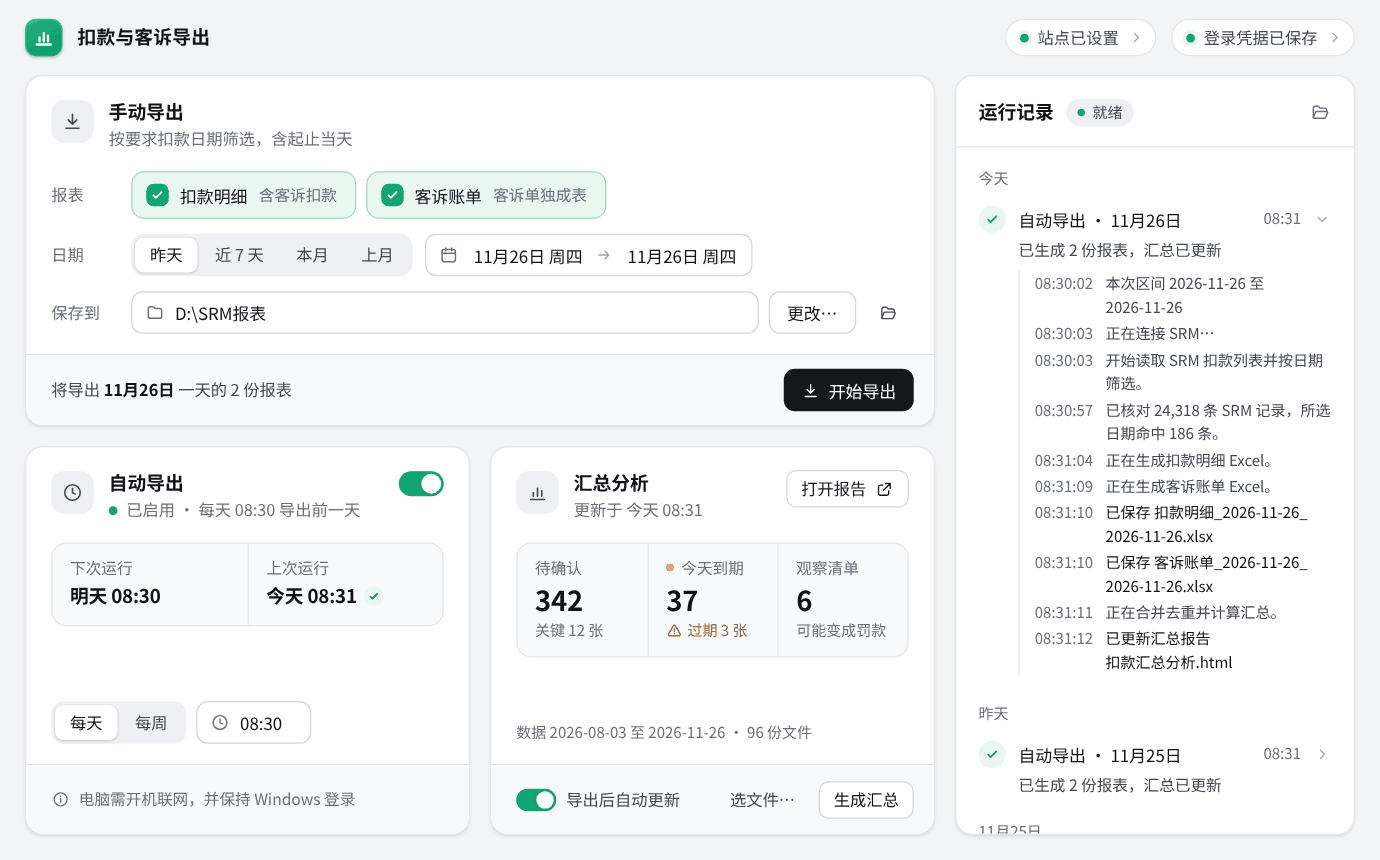
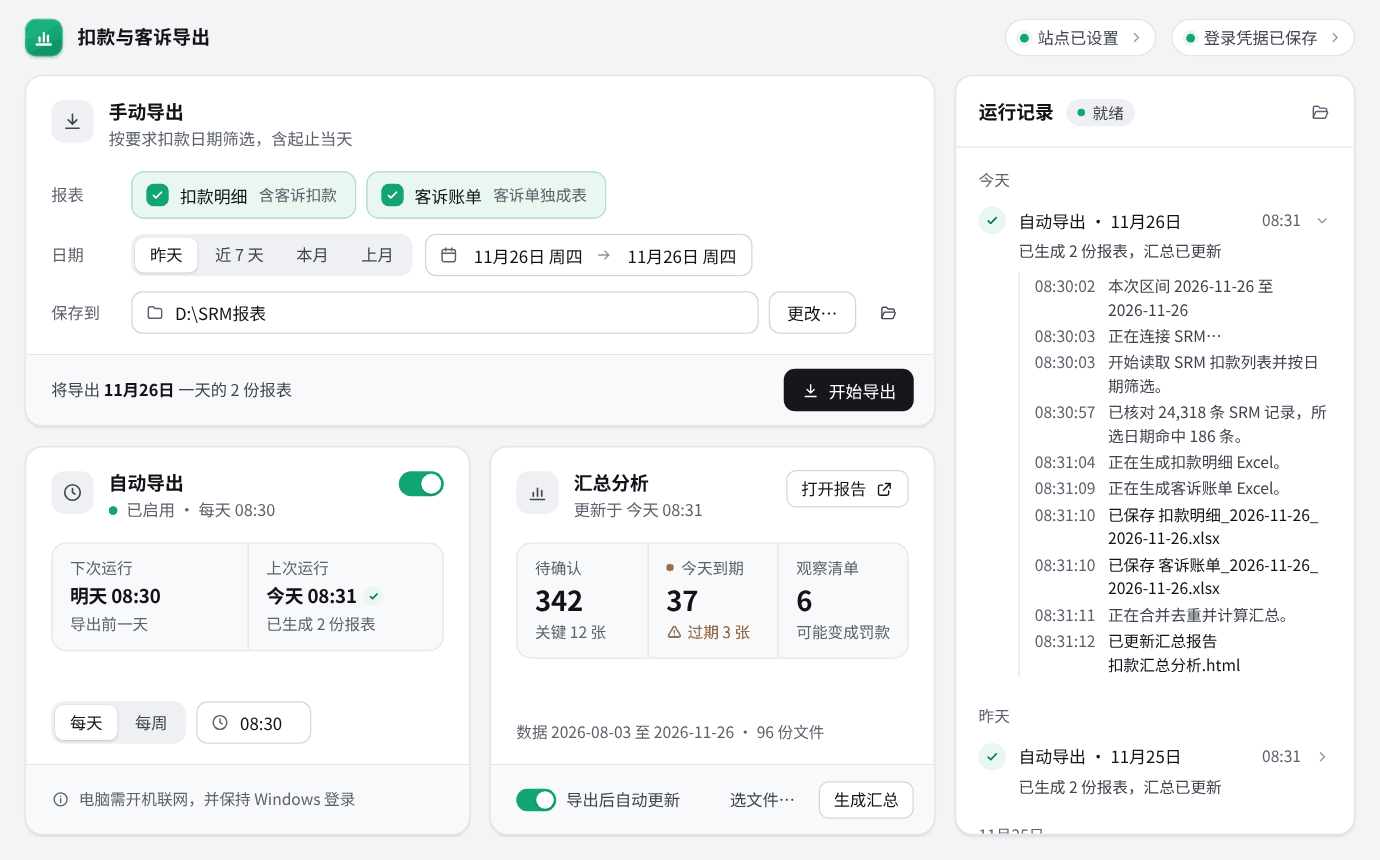
Fit the WebView2 window at the minimum size

diff --git a/app/web/index.html b/app/web/index.html
@@ -9,7 +9,7 @@
 :root{
   --bg:#f3f4f6;--surface:#ffffff;--surface-2:#f8f9fa;--sunken:#eef0f3;--hover:#f2f3f5;
   --line:#e3e5e9;--line-2:#d3d6dc;
-  --ink:#111318;--ink-2:#434852;--muted:#6a707b;--faint:#a1a6af;
+  --ink:#111318;--ink-2:#3f444e;--muted:#5c626d;--faint:#8f959e;
   --primary:#15171c;--primary-hover:#2c2f37;--on-primary:#ffffff;
   --brand:#10a572;--brand-strong:#047857;--brand-tint:#e9f7f0;--brand-line:#9fd9c0;--on-brand:#ffffff;
   --warn:#b45309;--warn-dot:#f59e0b;
@@ -39,7 +39,7 @@
 *{box-sizing:border-box;margin:0;padding:0}
 [hidden]{display:none!important}
 html,body{height:100%}
-body{font:14px/1.5 var(--font);color:var(--ink);background:var(--bg);-webkit-font-smoothing:antialiased;overflow:hidden;user-select:none;min-width:960px}
+body{font:14px/1.5 var(--font);color:var(--ink);background:var(--bg);-webkit-font-smoothing:antialiased;overflow-x:auto;overflow-y:hidden;user-select:none;min-width:1000px}
 button,input{font:inherit;color:inherit;border:0;background:none;outline:0}
 button{cursor:pointer}
 :focus-visible{outline:2px solid var(--brand);outline-offset:2px;border-radius:6px}
@@ -53,7 +53,7 @@ button{cursor:pointer}
 ::-webkit-scrollbar-thumb:hover{background-color:var(--faint)}
 
 /* ---------- 框架 ---------- */
-.app{display:grid;grid-template-columns:minmax(0,1fr) 320px;grid-template-rows:60px minmax(0,1fr);gap:0 16px;height:100vh;padding:0 20px 20px}
+.app{display:grid;grid-template-columns:minmax(0,1fr) 320px;grid-template-rows:60px minmax(0,1fr);gap:0 16px;height:100%;padding:0 20px 20px}
 .topbar{grid-column:1/-1;display:flex;align-items:center;gap:12px}
 .logo{width:30px;height:30px;border-radius:9px;display:grid;place-items:center;background:linear-gradient(155deg,#22c58c,#08875c);box-shadow:inset 0 0 0 1px rgba(255,255,255,.14),0 1px 2px rgba(8,135,92,.35)}
 .logo .i{width:18px;height:18px;stroke:#fff;stroke-width:2.5}
@@ -64,7 +64,7 @@ button{cursor:pointer}
 .chip.ok .dot{background:var(--brand);box-shadow:0 0 0 3px var(--brand-tint)}
 .chip.warn .dot{background:var(--warn-dot)}
 .chip .i{width:14px;height:14px;color:var(--faint)}
-.main{display:flex;flex-direction:column;gap:16px;min-width:0;min-height:0;overflow:auto;margin:-2px;padding:2px}
+.main{display:flex;flex-direction:column;gap:16px;min-width:0;min-height:0;overflow-x:hidden;overflow-y:auto;margin:-2px;padding:2px}
 .row2{display:grid;grid-template-columns:repeat(2,minmax(0,1fr));gap:16px;flex:1 0 auto}
 
 /* ---------- 卡片 ---------- */
@@ -143,7 +143,7 @@ button{cursor:pointer}
 .switch.sm{width:32px;height:18px;margin:0}
 .switch.sm::after{width:14px;height:14px}
 .switch.sm[aria-checked=true]::after{transform:translateX(14px)}
-.sw-label{display:inline-flex;align-items:center;gap:8px;font-size:13px;color:var(--ink-2);cursor:pointer;white-space:nowrap}
+.sw-label{display:inline-flex;align-items:center;gap:8px;font-size:13px;color:var(--ink-2);cursor:pointer;white-space:nowrap;min-width:0}
 .spin{display:inline-block;width:14px;height:14px;border-radius:50%;border:2px solid currentColor;border-right-color:transparent;animation:spin .7s linear infinite;flex:none}
 @keyframes spin{to{transform:rotate(360deg)}}
 body.busy [data-lock]{pointer-events:none;opacity:.45}
@@ -162,13 +162,13 @@ body.busy [data-lock]{pointer-events:none;opacity:.45}
 .k{font-size:12.5px;color:var(--muted);display:flex;align-items:center;gap:6px;white-space:nowrap}
 .v{font-size:22px;line-height:30px;font-weight:600;letter-spacing:-.01em}
 .kv .v{font-size:15px;line-height:24px;display:flex;align-items:center;gap:6px;white-space:nowrap}
-.s{font-size:12px;color:var(--muted);white-space:nowrap;overflow:hidden;text-overflow:ellipsis}
+.s{font-size:12.5px;color:var(--muted);white-space:nowrap;overflow:hidden;text-overflow:ellipsis}
 .s.warn{color:var(--warn);display:flex;align-items:center;gap:4px}
 .s.warn .i{width:13px;height:13px;stroke-width:2}
 .sdot{width:6px;height:6px;border-radius:50%;background:var(--warn-dot)}
 .okc{width:16px;height:16px;border-radius:50%;display:grid;place-items:center;background:var(--brand-tint);color:var(--brand-strong)}
 .okc .i{width:10px;height:10px;stroke-width:3}
-.meta{font-size:12px;color:var(--muted)}
+.meta{font-size:12.5px;color:var(--muted)}
 .note{flex:1;display:flex;align-items:center;gap:7px;font-size:12.5px;color:var(--muted);min-width:0}
 .note .i{width:15px;height:15px}
 .dirty{flex:1;display:flex;align-items:center;gap:6px;font-size:13px;color:var(--ink-2)}
@@ -178,13 +178,13 @@ body.busy [data-lock]{pointer-events:none;opacity:.45}
 .activity{min-height:0;overflow:hidden}
 .act-h{display:flex;align-items:center;gap:10px;padding:14px 12px 12px 18px;border-bottom:1px solid var(--line)}
 .act-h h2{font-size:15px;font-weight:600}
-.state{display:inline-flex;align-items:center;gap:6px;height:22px;padding:0 9px;border-radius:999px;background:var(--sunken);font-size:12px;color:var(--ink-2);white-space:nowrap}
+.state{display:inline-flex;align-items:center;gap:6px;height:22px;padding:0 9px;border-radius:999px;background:var(--sunken);font-size:12.5px;color:var(--ink-2);white-space:nowrap}
 .state .dot{width:6px;height:6px;background:var(--brand)}
 .state.run{background:var(--brand-tint);color:var(--brand-strong)}
 .state.run .dot{animation:pulse 1s ease-in-out infinite}
 @keyframes pulse{50%{opacity:.25}}
 .feed{flex:1;overflow:auto;padding:2px 10px 14px}
-.day{font-size:12px;font-weight:500;color:var(--muted);padding:14px 8px 4px}
+.day{font-size:12.5px;font-weight:500;color:var(--muted);padding:14px 8px 4px}
 .run{margin-bottom:2px}
 .run-h{display:flex;align-items:center;gap:10px;width:100%;padding:8px;border-radius:10px;text-align:left}
 .run-h:hover{background:var(--hover)}
@@ -194,7 +194,7 @@ body.busy [data-lock]{pointer-events:none;opacity:.45}
 .run.fail .run-ic{background:var(--crit-tint);color:var(--crit)}
 .run.running .spin{width:11px;height:11px;border-width:1.75px}
 .run-t{flex:1;min-width:0;font-size:13.5px;font-weight:500;white-space:nowrap;overflow:hidden;text-overflow:ellipsis}
-.run-h time{font-size:12px;color:var(--muted)}
+.run-h time{font-size:12.5px;color:var(--muted)}
 .run-h .tw{width:14px;height:14px;color:var(--faint);transition:transform .15s}
 .run.open .tw{transform:rotate(90deg)}
 .run-m{font-size:12.5px;line-height:19px;color:var(--ink-2);padding:0 8px 4px 40px;margin-top:-5px}
@@ -204,7 +204,7 @@ body.busy [data-lock]{pointer-events:none;opacity:.45}
 @keyframes slide{from{left:-38%}to{left:100%}}
 .run-lines{display:none;margin:4px 8px 8px 40px;padding-left:12px;border-left:1px solid var(--line)}
 .run.open .run-lines{display:block}
-.line{display:flex;gap:10px;font-size:12px;line-height:19px;padding:1px 0;color:var(--ink-2);user-select:text}
+.line{display:flex;gap:10px;font-size:12.5px;line-height:19px;padding:1px 0;color:var(--ink-2);user-select:text}
 .line time{color:var(--muted);flex:none}
 .line.ok span{color:var(--ink)}
 .empty{display:grid;justify-items:center;gap:4px;text-align:center;padding:56px 24px;color:var(--muted);font-size:12.5px}
@@ -234,7 +234,7 @@ body.busy [data-lock]{pointer-events:none;opacity:.45}
 .input:hover{border-color:var(--faint)}
 .input:focus{border-color:var(--brand);box-shadow:var(--ring)}
 .input::placeholder{color:var(--faint)}
-.hint{font-size:12px;color:var(--muted)}
+.hint{font-size:12.5px;color:var(--muted)}
 .banner{display:flex;align-items:center;gap:8px;padding:9px 12px;border-radius:10px;background:var(--brand-tint);color:var(--brand-strong);font-size:13px}
 .banner .i{width:15px;height:15px;stroke-width:2.2}
 .divider{display:flex;align-items:center;gap:10px;font-size:12px;color:var(--muted)}
@@ -263,6 +263,7 @@ body.busy [data-lock]{pointer-events:none;opacity:.45}
 .btn.danger,.btn.danger:hover{color:var(--crit)}
 .btn.danger:hover{background:var(--crit-tint)}
 .path .ellipsis{flex:1}
+.s.bad{color:var(--crit)}
 
 /* 矮窗口（如 150% 缩放的 1080p 笔记本）收紧上下间距，不用滚动就能点到卡片底部的按钮 */
 @media (max-height:680px){
@@ -279,10 +280,16 @@ body.busy [data-lock]{pointer-events:none;opacity:.45}
   .act-h{padding-top:12px;padding-bottom:10px}
 }
 
-/* 窄窗口：运行记录收窄一点，日期那一行不折行 */
-@media (max-width:1060px){
-  .app{grid-template-columns:minmax(0,1fr) 292px}
-  .toasts{left:calc(20px + (100% - 348px)/2)}
+/* 窄窗口：运行记录收窄，卡片左右留白收紧，下面两张卡片的按钮和数字放得下 */
+@media (max-width:1100px){
+  .app{grid-template-columns:minmax(0,1fr) 272px}
+  .toasts{left:calc(20px + (100% - 328px)/2)}
+  .card-h,.card-b{padding-left:16px;padding-right:16px}
+  .card-f{padding-left:16px;padding-right:12px}
+  .stat,.kv>div{padding-left:10px;padding-right:10px}
+  .btn.sm{padding:0 9px}
+  .seg button{padding:0 10px}
+  .act-h{padding-left:16px}
 }
 </style>
 </head>
@@ -359,8 +366,8 @@ body.busy [data-lock]{pointer-events:none;opacity:.45}
         </header>
         <div class="card-b spread">
           <div class="kv">
-            <div><span class="k">下次运行</span><span class="v num" id="nextRun"></span></div>
-            <div><span class="k">上次运行</span><span class="v num" id="lastRun"></span></div>
+            <div><span class="k">下次运行</span><span class="v num" id="nextRun"></span><span class="s" id="nextRunSub"></span></div>
+            <div><span class="k">上次运行</span><span class="v num" id="lastRun"></span><span class="s" id="lastRunSub"></span></div>
           </div>
           <div class="inline">
             <div class="seg" id="freq" data-lock><button type="button" data-v="daily">每天</button><button type="button" data-v="weekly">每周</button></div>
@@ -390,7 +397,7 @@ body.busy [data-lock]{pointer-events:none;opacity:.45}
           <p class="meta" id="sumUpdated"></p>
         </div>
         <footer class="card-f">
-          <label class="sw-label" data-lock><button type="button" class="switch sm" id="sumAuto" role="switch" aria-label="导出后自动更新汇总"></button>导出后自动更新</label>
+          <label class="sw-label" data-lock title="导出扣款明细后自动更新汇总报告"><button type="button" class="switch sm" id="sumAuto" role="switch" aria-label="导出后自动更新汇总"></button><span class="ellipsis">导出后自动更新</span></label>
           <span class="spacer"></span>
           <button type="button" class="btn ghost sm" id="pickFiles" data-lock>选文件…</button>
           <button type="button" class="btn secondary sm" id="genSum" data-lock disabled>生成汇总</button>
@@ -677,7 +684,7 @@ function renderExport() {
   else run.append(icon("i-down"), "开始导出");
 }
 function scheduleText(s) {
-  return s.frequency === "daily" ? `每天 ${s.time} 导出前一天` : `每周${WEEKDAYS[s.weekday]} ${s.time} 导出前 7 天`;
+  return s.frequency === "daily" ? `每天 ${s.time}` : `每周${WEEKDAYS[s.weekday]} ${s.time}`;
 }
 function nextRun(s) {
   const now = new Date(), [h, m] = s.time.split(":").map(Number);
@@ -700,20 +707,32 @@ function renderSchedule() {
   else if (sc.enabled) head.replaceChildren(dot("ok"), `已启用 · ${scheduleText(sc)}`);
   else head.replaceChildren(dot(), "未启用");
 
-  const next = $("#nextRun");
+  const next = $("#nextRun"), nextSub = $("#nextRunSub");
   next.className = "v num";
-  if (!loading && sc.enabled) { const d = nextRun(sc); next.textContent = `${relDay(d)} ${hm(d)}`; }
-  else { next.textContent = "—"; next.classList.add("dim"); }
-  const last = $("#lastRun"), lastRun = S.runs.find(run => run.kind === "scheduled");
+  if (!loading && sc.enabled) {
+    const d = nextRun(sc);
+    next.textContent = `${relDay(d)} ${hm(d)}`;
+    nextSub.textContent = sc.frequency === "daily" ? "导出前一天" : "导出前 7 天";
+  } else {
+    next.textContent = "—"; next.classList.add("dim");
+    nextSub.textContent = loading ? "" : "启用后按时运行";
+  }
+  const last = $("#lastRun"), lastSub = $("#lastRunSub"), lastRun = S.runs.find(run => run.kind === "scheduled");
   last.className = "v num";
   if (lastRun) {
-    const when = parseTime(lastRun.end) || parseTime(lastRun.start);
+    const ok = lastRun.status === "ok", when = parseTime(lastRun.end) || parseTime(lastRun.start);
     const mark = document.createElement("span");
-    mark.className = lastRun.status === "ok" ? "okc" : "failc";
-    mark.title = lastRun.status === "ok" ? "成功" : lastRun.message;
-    mark.append(icon(lastRun.status === "ok" ? "i-check" : "i-x"));
+    mark.className = ok ? "okc" : "failc";
+    mark.title = ok ? "成功" : "失败";
+    mark.append(icon(ok ? "i-check" : "i-x"));
     last.replaceChildren(when ? `${relDay(when)} ${hm(when)}` : "—", mark);
-  } else { last.textContent = "—"; last.classList.add("dim"); }
+    lastSub.textContent = (lastRun.message || "").split(/[，。]/)[0] || (ok ? "成功" : "失败");   // 完整说明在提示和运行记录里
+    lastSub.title = lastRun.message || "";
+    lastSub.className = "s" + (ok ? "" : " bad");
+  } else {
+    last.textContent = "—"; last.classList.add("dim");
+    lastSub.textContent = "还没有运行过"; lastSub.title = ""; lastSub.className = "s";
+  }
 
   $$("#freq button").forEach(b => b.classList.toggle("on", b.dataset.v === f.frequency));
   if (document.activeElement !== $("#runAt")) $("#runAt").value = f.time;

diff --git a/app/web_app.py b/app/web_app.py
@@ -31,7 +31,7 @@ from win_schedule import get_schedule, remove_schedule, set_schedule
 
 PAGE = Path(__file__).resolve().parent / "web" / "index.html"
 WINDOW_SIZE = (1120, 720)
-MIN_SIZE = (980, 620)
+MIN_SIZE = (1024, 640)
 BOOT_TIMEOUT = 15   # 页面这么久还没连上 Python，就关掉窗口改用旧界面
 POLL_WAIT = 15
 BUSY_TEXT = {"export": "导出", "summary": "生成汇总", "login": "浏览器登录", "settings": "保存设置"}
